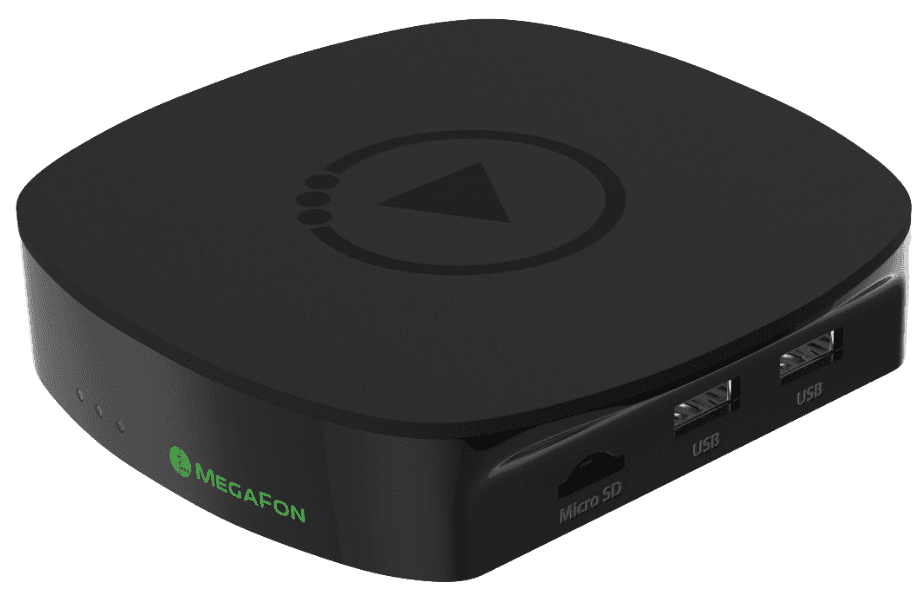
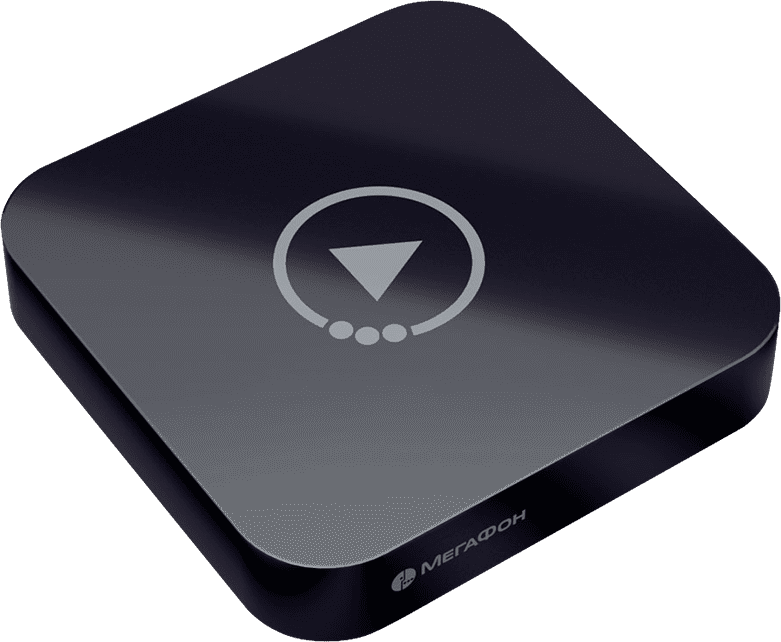
замена img оборудования

diff --git a/app/components/modals.scss b/app/components/modals.scss
@@ -185,7 +185,7 @@
 
       img {
          max-width: 100%;
-         max-height: 100%;
+         max-height: inherit;
          vertical-align: middle;
       }
    }
